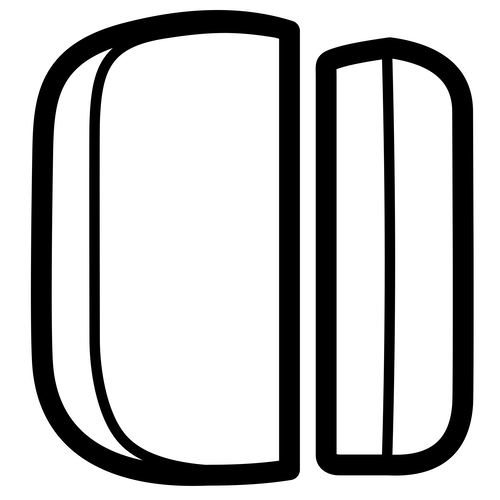
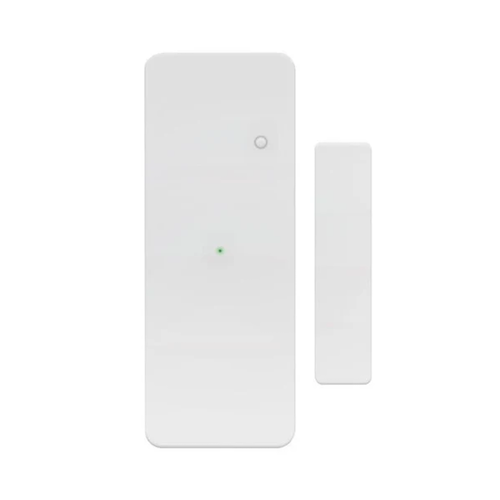
Updated driver images and readme.txt

diff --git a/app.js b/app.js
@@ -5,12 +5,12 @@ const Insteon = require('home-controller').Insteon;
 const WebSocket = require('ws');
 
 class InsteonApp extends Homey.App {
-  
+
   /**
    * onInit is called when the app is initialized.
    */
   async onInit() {
-    this.log('Insteon for Homey app is running...');
+    this.log('Insteon app is running...');
 
     // Initialize state
     this.hub = null;
@@ -31,7 +31,7 @@ class InsteonApp extends Homey.App {
 
     // Get app settings
     this.settings = this.homey.settings;
-    
+
     // Initialize hub connection
     await this.initializeHub();
 
@@ -60,22 +60,22 @@ class InsteonApp extends Homey.App {
     if (debugEnabled) {
       // Get existing log
       let logMessages = this.homey.settings.get('debugLog') || [];
-      
+
       // Add timestamp and message
       const timestamp = new Date().toISOString().substr(11, 12);
       const logEntry = `[${timestamp}] ${message}`;
-      
+
       // Add to array
       logMessages.push(logEntry);
-      
+
       // Keep last 1000 messages
       if (logMessages.length > 1000) {
         logMessages = logMessages.slice(-1000);
       }
-      
+
       // Save back to settings
       this.homey.settings.set('debugLog', logMessages);
-      
+
       // Also log to console
       this.log(`[DEBUG] ${message}`);
     }
@@ -141,7 +141,7 @@ class InsteonApp extends Homey.App {
 
       // Start event listener
       this.startEventListener();
-      
+
     } catch (error) {
       this.error('Failed to connect to Insteon Hub:', error);
       this.connectedToHub = false;
@@ -160,9 +160,9 @@ class InsteonApp extends Homey.App {
 
     // Exponential backoff with max delay of 5 minutes
     this.reconnectDelay = Math.min(this.reconnectDelay * 2, 300);
-    
+
     this.log(`Scheduling reconnect in ${this.reconnectDelay} seconds...`);
-    
+
     this.reconnectTimer = setTimeout(() => {
       this.initializeHub();
     }, this.reconnectDelay * 1000);
@@ -209,7 +209,7 @@ class InsteonApp extends Homey.App {
 
       // Find device by Insteon deviceID
       const device = this.devices.get(deviceId);
-      
+
       if (!device) {
         this.debugLog(`❌ No registered device found for Insteon ID ${deviceId}`);
         this.debugLog(`Registered device IDs: [${Array.from(this.devices.keys()).join(', ')}]`);
@@ -218,7 +218,7 @@ class InsteonApp extends Homey.App {
       }
 
       const deviceType = device.driver.id;
-      
+
       this.debugLog(`✅ Found device: ${device.getName()} (${deviceType})`);
 
       switch (deviceType) {
@@ -243,7 +243,7 @@ class InsteonApp extends Homey.App {
 
       // Broadcast to WebSocket clients
       this.broadcastDeviceState(device, deviceId, command2);
-      
+
       this.debugLog('========================================');
     });
   }
@@ -261,15 +261,15 @@ class InsteonApp extends Homey.App {
     this.debugLog(`  messageType: ${messageType}`);
 
     // Status request response or direct messages
-    if (cmd1 === 0x19 || cmd1 === 0x03 || cmd1 === 0x04 || 
-        (cmd1 === 0x00 && cmd2Hex !== '00') || 
+    if (cmd1 === 0x19 || cmd1 === 0x03 || cmd1 === 0x04 ||
+        (cmd1 === 0x00 && cmd2Hex !== '00') ||
         (cmd1 === 0x06 && messageType === '1')) {
-      
+
       const levelInt = parseInt(cmd2Hex, 16) * (100 / 255);
       const level = Math.ceil(levelInt) / 100; // Homey uses 0-1 range
 
       this.debugLog(`  Status update: level=${level.toFixed(2)} (${level > 0 ? 'ON' : 'OFF'})`);
-      
+
       if (device.hasCapability('dim')) {
         this.debugLog(`  Setting dim capability to ${level.toFixed(2)}`);
         device.setCapabilityValue('dim', level).catch(this.error);
@@ -283,7 +283,7 @@ class InsteonApp extends Homey.App {
       const level = Math.ceil(levelInt) / 100;
 
       this.debugLog(`  ON command: level=${level.toFixed(2)}`);
-      
+
       if (device.hasCapability('dim')) {
         this.debugLog(`  Setting dim capability to ${level.toFixed(2)}`);
         device.setCapabilityValue('dim', level).catch(this.error);
@@ -294,7 +294,7 @@ class InsteonApp extends Homey.App {
     // Fast ON
     else if (cmd1 === 0x12) {
       this.debugLog(`  FastON command`);
-      
+
       if (device.hasCapability('dim')) {
         this.debugLog(`  Setting dim capability to 1.00`);
         device.setCapabilityValue('dim', 1).catch(this.error);
@@ -305,7 +305,7 @@ class InsteonApp extends Homey.App {
     // OFF or Fast OFF
     else if (cmd1 === 0x13 || cmd1 === 0x14) {
       this.debugLog(`  ${cmd1 === 0x14 ? 'Fast' : 'Normal'} OFF command`);
-      
+
       if (device.hasCapability('dim')) {
         this.debugLog(`  Setting dim capability to 0.00`);
         device.setCapabilityValue('dim', 0).catch(this.error);
@@ -322,16 +322,16 @@ class InsteonApp extends Homey.App {
     // Manual dim (press and hold to dim)
     else if (cmd1 === 0x16) {
       this.debugLog(`  Start manual dim command (user holding button)`);
-      // No action needed - just informational  
+      // No action needed - just informational
       // When they release, we'll get 0x18 (stop) and query the level
     }
     // Stop dimming - query current level
     else if (cmd1 === 0x18) {
       this.debugLog(`  Stop manual dimming command - querying level`);
-      
+
       const settings = device.getSettings();
       const insteonID = settings.deviceID;
-      
+
       if (insteonID) {
         this.hub.light(insteonID).level().then(level => {
           const normalizedLevel = level / 100;
@@ -353,11 +353,11 @@ class InsteonApp extends Homey.App {
    */
   handleContactEvent(device, command1, command2) {
     const cmd1 = parseInt(command1, 16);
-    
+
     this.debugLog(`handleContactEvent called`);
     this.debugLog(`  cmd1: 0x${command1} (${cmd1})`);
     this.debugLog(`  cmd2: 0x${command2}`);
-    
+
     // Contact sensors use cmd1 for state:
     // 0x11 = OPEN
     // 0x13 = CLOSED
@@ -382,14 +382,14 @@ class InsteonApp extends Homey.App {
   handleLeakEvent(device, command1, command2) {
     const cmd1 = parseInt(command1, 16);
     const cmd2 = parseInt(command2, 16);
-    
+
     this.debugLog(`handleLeakEvent called`);
     this.debugLog(`  cmd1: 0x${command1} (${cmd1})`);
     this.debugLog(`  cmd2: 0x${command2} (${cmd2})`);
-    
+
     // Leak sensors use cmd1=0x11 with cmd2 to indicate state:
     // cmd2=0x02 (2) = WET
-    // cmd2=0x01 (1) = DRY  
+    // cmd2=0x01 (1) = DRY
     // cmd1=0x06 = Heartbeat (ignore)
     if (cmd1 === 0x11 && cmd2 === 0x02) {
       this.debugLog(`  Leak sensor detected WATER (wet) - cmd2=0x02`);
@@ -413,11 +413,11 @@ class InsteonApp extends Homey.App {
    */
   handleMotionEvent(device, command1, command2) {
     const cmd1 = parseInt(command1, 16);
-    
+
     this.debugLog(`handleMotionEvent called`);
     this.debugLog(`  cmd1: 0x${command1} (${cmd1})`);
     this.debugLog(`  cmd2: 0x${command2}`);
-    
+
     // Motion sensors use cmd1 for state (same as contact sensors):
     // 0x11 = ACTIVE (motion detected)
     // 0x13 = INACTIVE (no motion)
@@ -444,7 +444,7 @@ class InsteonApp extends Homey.App {
       name: device.getName(),
       id: deviceId,
       deviceType: device.driver.id,
-      state: device.getCapabilityValue('onoff') ? 
+      state: device.getCapabilityValue('onoff') ?
         (device.hasCapability('dim') ? Math.round(device.getCapabilityValue('dim') * 100) : 100) : 0
     };
 
@@ -460,10 +460,10 @@ class InsteonApp extends Homey.App {
    */
   async initializeWebSocketServer() {
     const wsPort = this.settings.get('wsPort') || 8080;
-    
+
     try {
       this.wss = new WebSocket.Server({ port: wsPort });
-      
+
       this.wss.on('connection', (ws) => {
         this.log('WebSocket client connected');
         this.wsClients.add(ws);
@@ -484,7 +484,7 @@ class InsteonApp extends Homey.App {
               deviceType: device.driver.id,
               dimmable: device.hasCapability('dim')
             }));
-            
+
             if (ws.readyState === WebSocket.OPEN) {
               ws.send(JSON.stringify(deviceList));
             }
@@ -539,39 +539,39 @@ class InsteonApp extends Homey.App {
     this.debugLog(`  Devices Map ID: ${this.devicesMapId || 'UNDEFINED!'}`);
     this.debugLog(`  Device name: ${device.getName()}`);
     this.debugLog(`  Device driver: ${device.driver.id}`);
-    
+
     // Use provided newSettings or get current settings
     const settings = newSettings || device.getSettings();
     this.debugLog(`  Using ${newSettings ? 'NEW' : 'CURRENT'} settings`);
     this.debugLog(`  Settings: ${JSON.stringify(settings)}`);
-    
+
     const insteonID = settings.deviceID;
     this.debugLog(`  Extracted deviceID: "${insteonID}"`);
-    
+
     if (!insteonID || insteonID === '') {
       this.log(`Cannot register device ${device.getName()} - no Insteon ID set`);
       this.debugLog(`  ❌ Registration aborted - no deviceID`);
       this.debugLog(`========================================`);
       return;
     }
-    
+
     // Register by Insteon deviceID (uppercase) for event matching
     const normalizedID = insteonID.toUpperCase();
     this.debugLog(`  Normalized ID: "${normalizedID}"`);
     this.debugLog(`  Current devices Map size: ${this.devices.size}`);
     this.debugLog(`  Current devices Map keys: [${Array.from(this.devices.keys()).join(', ')}]`);
-    
+
     this.devices.set(normalizedID, device);
-    
+
     this.debugLog(`  ✅ Device added to Map`);
     this.debugLog(`  New devices Map size: ${this.devices.size}`);
     this.debugLog(`  New devices Map keys: [${Array.from(this.devices.keys()).join(', ')}]`);
     this.debugLog(`  Verifying: Can we get it back? ${this.devices.has(normalizedID) ? 'YES' : 'NO'}`);
     this.debugLog(`  Retrieved value: ${this.devices.get(normalizedID) ? 'Device object found' : 'NULL/UNDEFINED'}`);
-    
+
     this.log(`Registered device: ${device.getName()} with Insteon ID ${normalizedID}`);
     this.debugLog(`========================================`);
-    
+
     // Set up event listeners for sensor devices
     if (device.driver.id === 'insteon-contact') {
       this.setupContactSensor(device);
@@ -592,7 +592,7 @@ class InsteonApp extends Homey.App {
     door.on('opened', () => {
       this.log(`Contact sensor ${device.getName()} opened`);
       device.setCapabilityValue('alarm_contact', true).catch(this.error);
-      
+
       this.wsClients.forEach(client => {
         if (client.readyState === WebSocket.OPEN) {
           client.send(JSON.stringify({
@@ -608,7 +608,7 @@ class InsteonApp extends Homey.App {
     door.on('closed', () => {
       this.log(`Contact sensor ${device.getName()} closed`);
       device.setCapabilityValue('alarm_contact', false).catch(this.error);
-      
+
       this.wsClients.forEach(client => {
         if (client.readyState === WebSocket.OPEN) {
           client.send(JSON.stringify({
@@ -634,7 +634,7 @@ class InsteonApp extends Homey.App {
     leak.on('wet', () => {
       this.log(`Leak sensor ${device.getName()} detected water`);
       device.setCapabilityValue('alarm_water', true).catch(this.error);
-      
+
       this.wsClients.forEach(client => {
         if (client.readyState === WebSocket.OPEN) {
           client.send(JSON.stringify({
@@ -650,7 +650,7 @@ class InsteonApp extends Homey.App {
     leak.on('dry', () => {
       this.log(`Leak sensor ${device.getName()} is dry`);
       device.setCapabilityValue('alarm_water', false).catch(this.error);
-      
+
       this.wsClients.forEach(client => {
         if (client.readyState === WebSocket.OPEN) {
           client.send(JSON.stringify({
@@ -670,7 +670,7 @@ class InsteonApp extends Homey.App {
   unregisterDevice(device) {
     const settings = device.getSettings();
     const insteonID = settings.deviceID;
-    
+
     if (insteonID && insteonID !== '') {
       const normalizedID = insteonID.toUpperCase();
       this.devices.delete(normalizedID);
@@ -700,7 +700,7 @@ class InsteonApp extends Homey.App {
     this.debugLog(`========================================`);
     this.debugLog(`sendSceneCommand() called`);
     this.debugLog(`  Command: ${command}`);
-    
+
     // Get hub settings
     const hubHost = this.homey.settings.get('hubHost');
     const hubPort = this.homey.settings.get('hubPort') || 25105;
@@ -711,7 +711,7 @@ class InsteonApp extends Homey.App {
     if (!hubHost) {
       throw new Error('Hub not configured');
     }
-    
+
     // Check credentials requirement based on hub model
     if (hubModel === '2245' && (!hubUser || !hubPass)) {
       throw new Error('Hub 2245 requires username and password');
@@ -731,7 +731,7 @@ class InsteonApp extends Homey.App {
 
     try {
       const http = require('http');
-      
+
       return await new Promise((resolve, reject) => {
         const urlObj = new URL(url);
         const options = {
@@ -742,7 +742,7 @@ class InsteonApp extends Homey.App {
           headers: {},
           timeout: 5000
         };
-        
+
         // Only add auth header if credentials provided
         if (hubUser && hubPass) {
           options.headers['Authorization'] = 'Basic ' + Buffer.from(`${hubUser}:${hubPass}`).toString('base64');
@@ -785,7 +785,7 @@ class InsteonApp extends Homey.App {
    */
   async onUninit() {
     this.log('Insteon app is shutting down...');
-    
+
     // Close WebSocket server
     if (this.wss) {
       this.wss.close();

diff --git a/README.md b/README.md
@@ -22,7 +22,7 @@ This app is currently in beta testing. Feedback and bug reports are welcome via 
 
 - **Homey Pro** with firmware **12.2.0 or higher**
 - **Insteon Hub** (model 2245 or 2242) on your local network
-- Hub **username** and **password**
+- Hub **username** and **password** (optional for model 2242)
 - Insteon device IDs (6-character hex, e.g., `45ED1C`)
 
 ## Supported Devices
